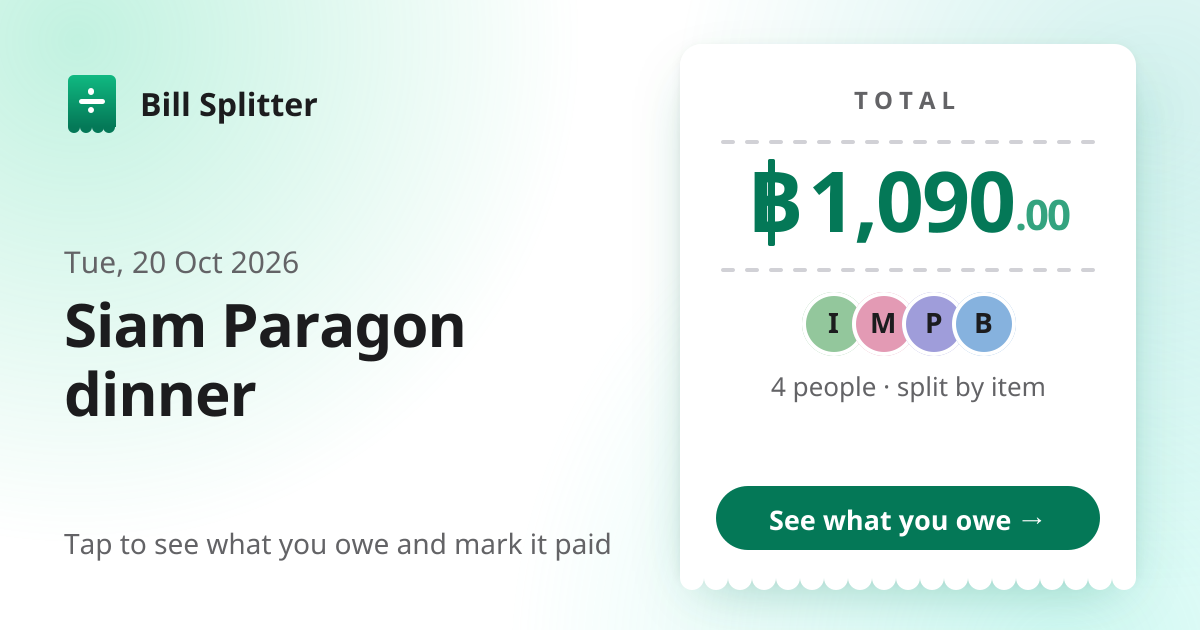
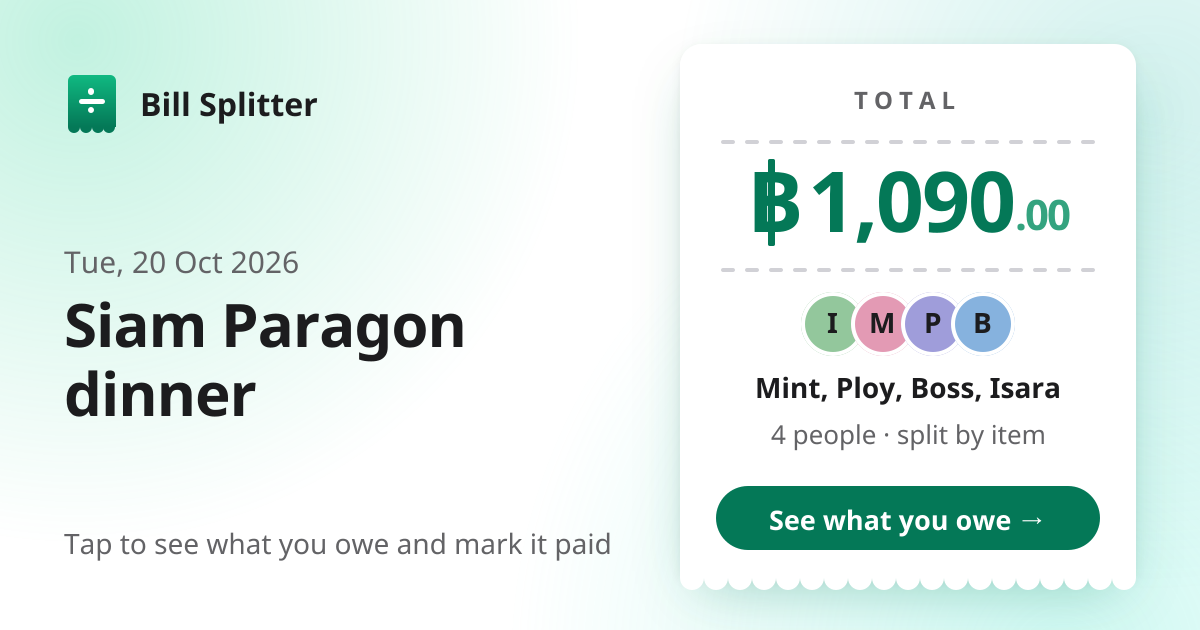
Show people's names on share preview cards (#4)
* Show people's names on share preview cards

The preview image (LINE, Messenger…) for a bill, a big bill and the
"who still owes" list showed only initials. It now adds their names
under the initials: "Boss, Mint, Ploy", or "Boss, Fah, Ice, Mint +4"
when they don't fit on one line.

* Preview cards: add the organiser's name only when there's room

Friends' names come first; the organiser's goes last and is left off
(without counting towards "+N") when it wouldn't fit on the line.

* Preview cards: the organiser's name goes last and into "+N" when full

Instead of leaving the organiser's name off when the line is full, it
now counts towards "+N" like anyone else; it just always goes last.

* README screenshots: names on the link preview card

share-preview.png redrawn with the new card; the preview inside
17-owed-to-you.jpg (light and dark) replaced with the new "Owed to"
card for the same sample data.

---------

Changed region(s): [[0.6475, 0.6635, 0.8633, 0.7238], [0.6167, 0.6032, 0.8942, 0.6333], [0.7092, 0.4825, 0.8017, 0.5429]]

diff --git a/src/lib/server/shareImage.tsx b/src/lib/server/shareImage.tsx
@@ -22,7 +22,8 @@ interface Card {
   title: string;
   total: number;
   currency: string;
-  people: { name: string; color?: PersonColor }[];
+  /** `organiser`: the person sharing it, whose name goes last (so it's the first into "+N") */
+  people: { name: string; color?: PersonColor; organiser?: boolean }[];
   /** e.g. "3 people · split by item" */
   detail: string;
   /** the receipt's heading (default "TOTAL") */
@@ -121,7 +122,12 @@ export async function shareImage(card: Card | null) {
               {dashes}
               <div style={{ display: "flex", flexDirection: "column", alignItems: "center", gap: 12 }}>
                 <Avatars people={card?.people ?? []} />
-                {card && <div style={{ fontSize: 26, color: INK_2 }}>{card.detail}</div>}
+                {card && card.people.length > 0 && (
+                  <div style={{ maxWidth: paper - 72, fontSize: 28, fontWeight: 700, overflow: "hidden", whiteSpace: "nowrap", textOverflow: "ellipsis" }}>
+                    {cardNames(card.people)}
+                  </div>
+                )}
+                {card && <div style={{ fontSize: 26, color: INK_2, marginTop: -6 }}>{card.detail}</div>}
               </div>
             </div>
             <div
@@ -159,6 +165,28 @@ export async function shareImage(card: Card | null) {
       ],
     },
   );
+}
+
+/**
+ * The people's names for the receipt: "Boss, Mint, Ploy", or "Boss, Mint +3"
+ * when they don't fit in about `max` characters (one line on the receipt).
+ */
+export function nameLine(names: string[], max = 24): string {
+  const all = names.map((n) => n.trim()).filter(Boolean);
+  const len = (s: string) => [...s].length;
+  let line = "";
+  for (let i = 0; i < all.length; i++) {
+    const next = line ? `${line}, ${all[i]}` : all[i];
+    const after = all.length - i - 1;
+    if (line && len(next) + (after > 0 ? ` +${after}`.length : 0) > max) return `${line} +${all.length - i}`;
+    line = next;
+  }
+  return line;
+}
+
+/** Friends first, the organiser last: "Boss, Mint, Isara", or "Boss, Mint, Ploy, Pim +1" when full. */
+export function cardNames(people: Card["people"]): string {
+  return nameLine([...people.filter((p) => !p.organiser), ...people.filter((p) => p.organiser)].map((p) => p.name));
 }
 
 /** Up to 6 overlapping initials, then "+N". */

diff --git a/src/lib/server/shareImage.test.ts b/src/lib/server/shareImage.test.ts
@@ -1,0 +1,22 @@
+import { describe, expect, it, vi } from "vitest";
+
+vi.mock("server-only", () => ({}));
+const { cardNames, nameLine } = await import("./shareImage");
+
+describe("nameLine (names on the share preview)", () => {
+  it("lists everyone when they fit", () => expect(nameLine(["Boss", "Mint", "Ploy"])).toBe("Boss, Mint, Ploy"));
+  it("ends with +N for the ones that don't fit", () =>
+    expect(nameLine(["Alexander", "Benjamin", "Christopher", "Dan"])).toBe("Alexander, Benjamin +2"));
+  it("puts the organiser last, so they're the first into +N", () => {
+    const me = { name: "Isara", organiser: true };
+    const ppl = (...names: string[]) => [me, ...names.map((name) => ({ name }))];
+    expect(cardNames(ppl("Boss", "Mint"))).toBe("Boss, Mint, Isara");
+    expect(cardNames(ppl("Boss", "Mint", "Ploy", "Pim"))).toBe("Boss, Mint, Ploy, Pim +1");
+    expect(cardNames(ppl("Alexander", "Benjamin", "Christopher"))).toBe("Alexander, Benjamin +2");
+  });
+  it("always shows the first name, and skips blanks", () => {
+    expect(nameLine(["Wongsakorn Srisawat", "Mint"])).toBe("Wongsakorn Srisawat +1");
+    expect(nameLine(["Boss", " ", "Mint"])).toBe("Boss, Mint");
+    expect(nameLine([])).toBe("");
+  });
+});

diff --git a/src/app/api/og/s/[id]/route.ts b/src/app/api/og/s/[id]/route.ts
@@ -1,4 +1,4 @@
-import { calculate } from "@/lib/calc";
+import { calculate, ORGANISER_ID } from "@/lib/calc";
 import { billDate } from "@/lib/draft";
 import { shareImage } from "@/lib/server/shareImage";
 import { loadSplit } from "@/lib/server/splits";
@@ -13,7 +13,7 @@ export async function GET(_req: Request, ctx: RouteContext<"/api/og/s/[id]">) {
         title: s.doc.title,
         total: calculate(s.doc).total,
         currency: s.doc.currency,
-        people: s.doc.people,
+        people: s.doc.people.map((p) => ({ ...p, organiser: p.id === ORGANISER_ID })),
         detail: `${s.doc.people.length} ${s.doc.people.length === 1 ? "person" : "people"} · ${s.doc.mode === "equal" ? "split equally" : "split by item"}`,
       })
     : await shareImage(null);
